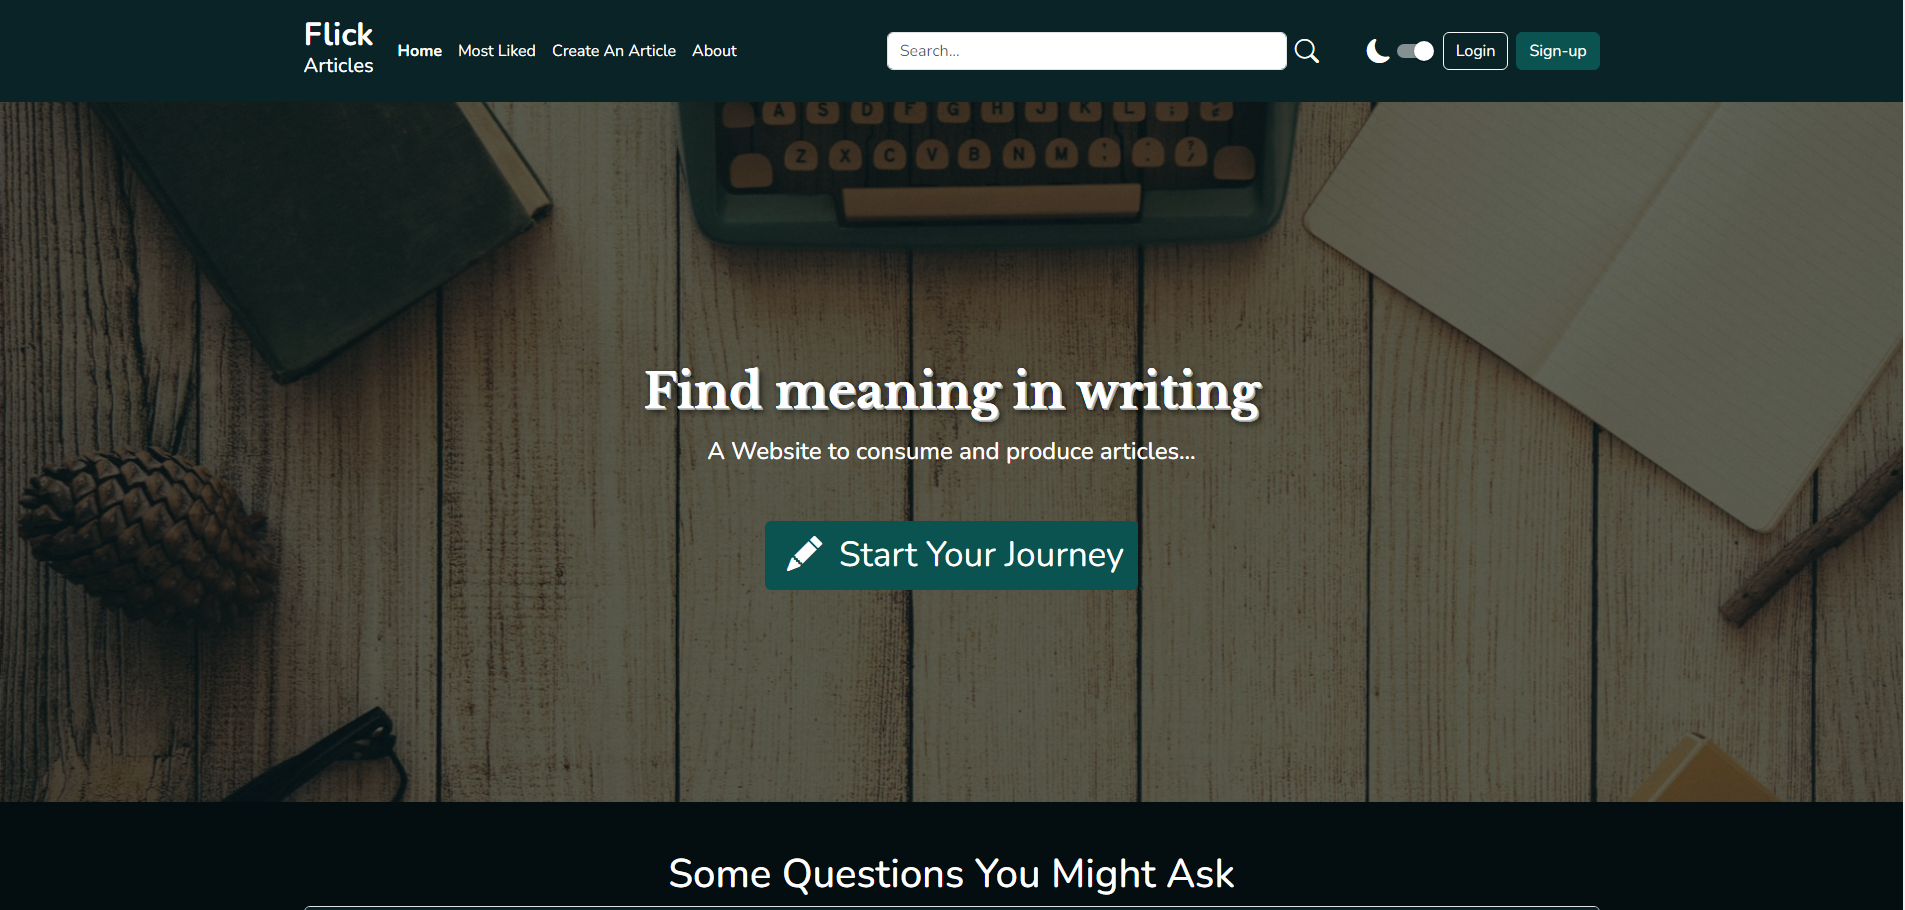
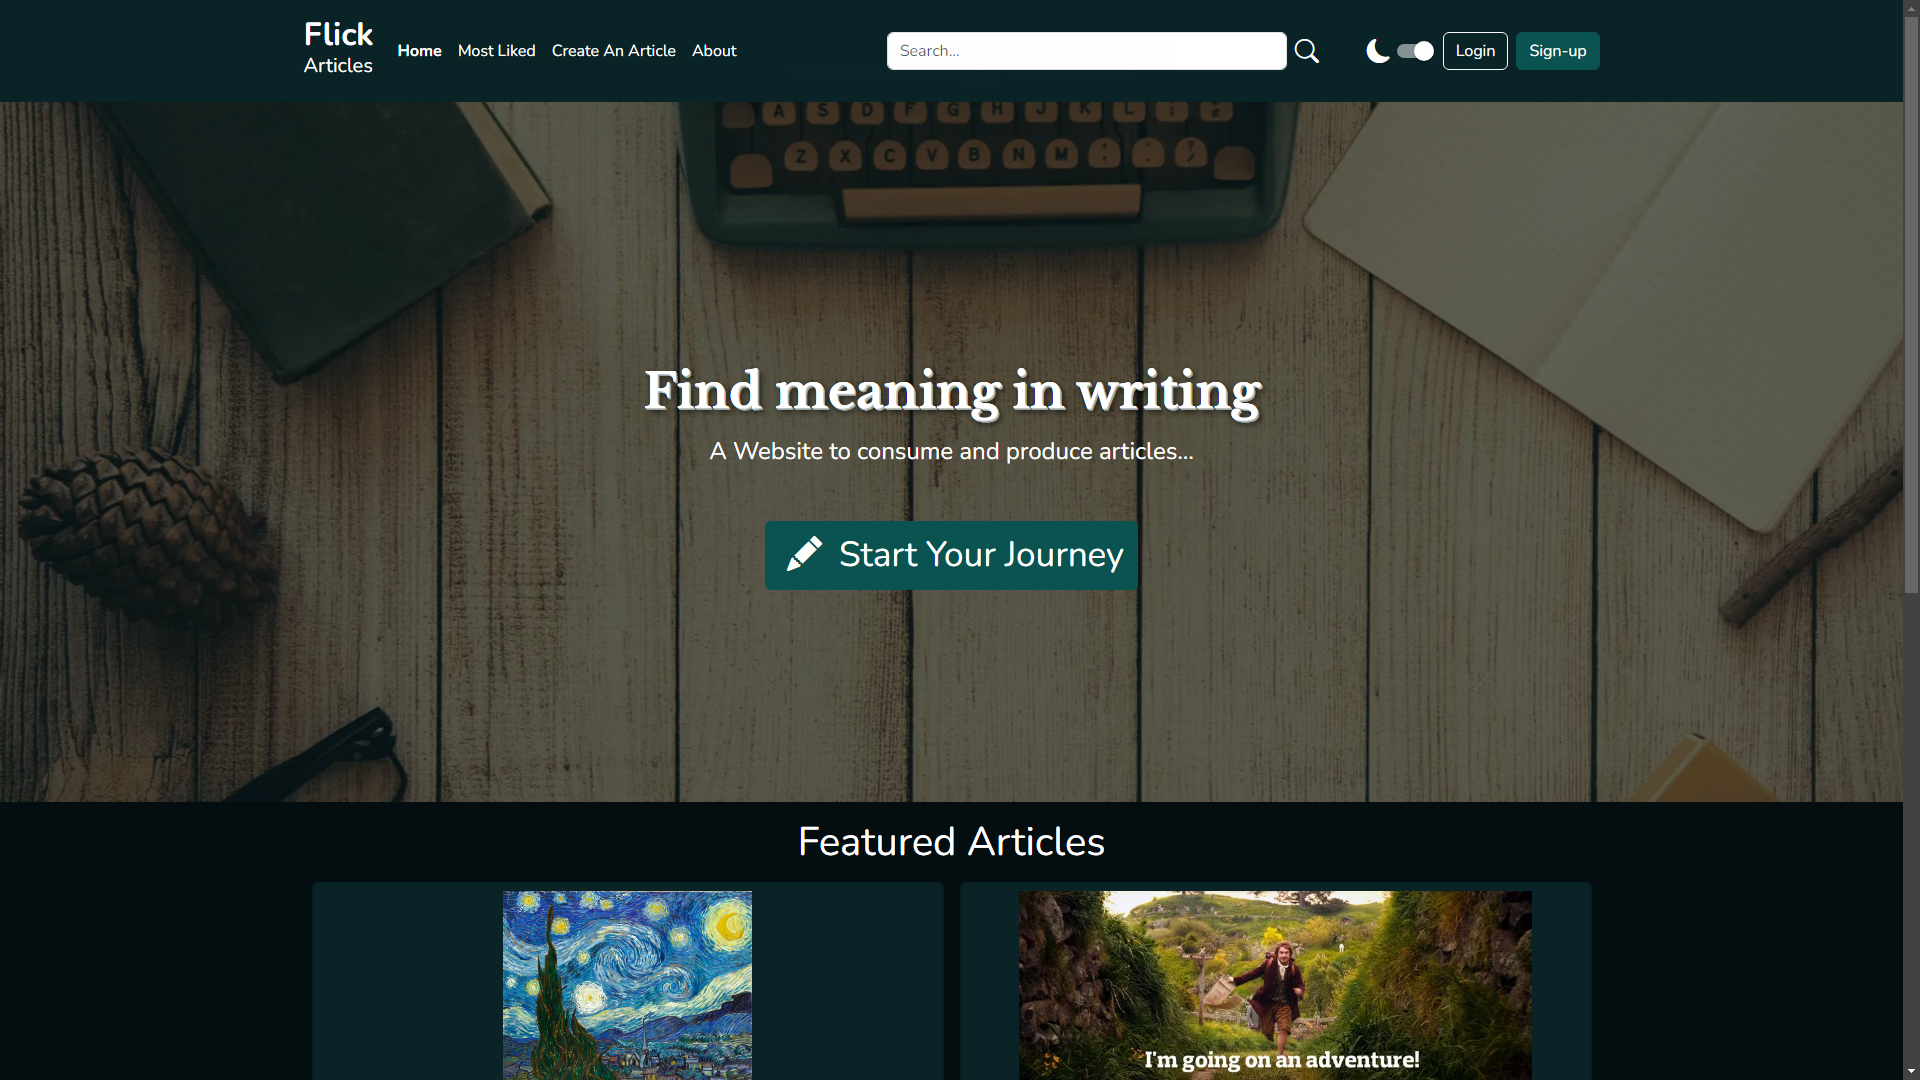
added lotrquiz project+ added redux+updated images

diff --git a/index.html b/index.html
@@ -116,6 +116,10 @@
                   <p>Vite 5.4+</p>
                   <img src="images/vite.jpg" alt="" />
                 </div>
+                <div class="item">
+                  <p>Redux/Toolkit 2.2+</p>
+                  <img src="images/redux-toolkit.png" alt="" />
+                </div>
               </div>
             </div>
             <div class="planning-to-learn" data-tilt>
@@ -158,14 +162,28 @@
                   This is an article writing website. It has decent amount of
                   functionality like crud operations on articles, some user
                   operations, gmail login, private message and notification
-                  functionalities. It is a Mern app (Nextjs). See website
-                  separately
-                  <a
-                    class="underlined"
-                    target="_blank"
-                    href="https://www.flickarticles.com/"
-                    >here</a
-                  >.
+                  functionalities. It is a Mern app (Nextjs).
+                </p>
+              </div>
+            </div>
+            <div class="item">
+              <img src="images/lotrquiz-screenshot.png" alt="" />
+              <div class="name-links">
+                <h3>LotrQuiz</h3>
+                <div class="links">
+                  <a target="_blank" href="https://github.com/MRSevim/lotrquiz">
+                    <i class="fa-brands fa-github fa-xl"></i>
+                  </a>
+                  <a target="_blank" href="https://lotrquiz-ten.vercel.app/">
+                    <i class="fas fa-eye fa-xl"></i>
+                  </a>
+                </div>
+              </div>
+              <div class="description">
+                <p>
+                  This is a small Lord of the Rings quiz I made that compares
+                  books vs movies. It uses React with Vite, Tailwind and Redux
+                  Toolkit.
                 </p>
               </div>
             </div>
